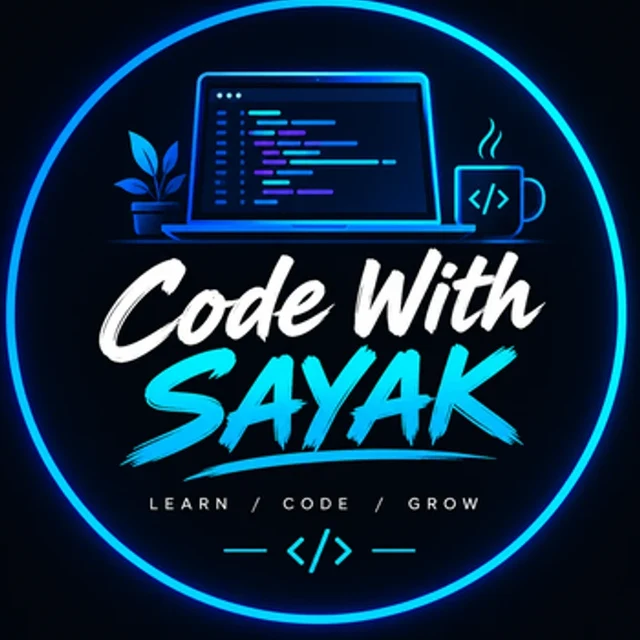
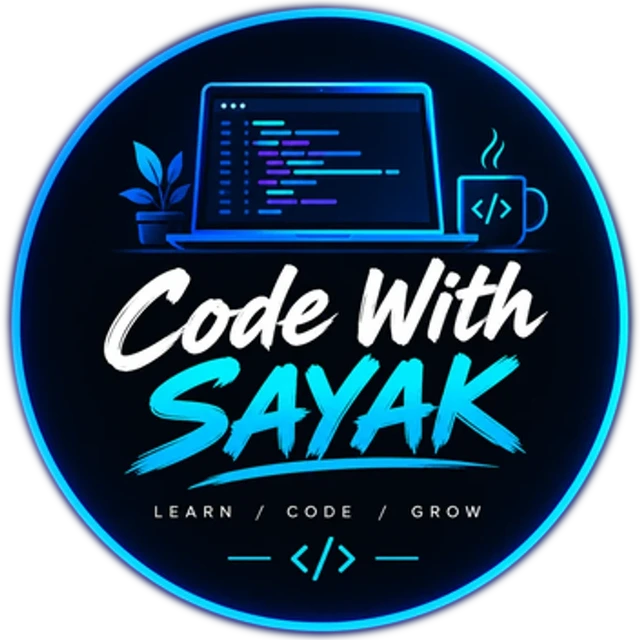
Fix hero orb and about card image sizing, centering, and alpha masking

diff --git a/src/styles/sections.css b/src/styles/sections.css
@@ -165,8 +165,8 @@
 }
 .hero__role .rotator {
   position: relative;
-  display: inline-block;
-  min-width: 17ch;
+  display: inline-grid;
+  align-items: center;
   color: var(--text);
   /* The box must be at least one full line box tall, otherwise uppercase mono
      text gets shaved top and bottom and the neighbouring item bleeds in. */
@@ -175,11 +175,7 @@
   overflow: hidden;
 }
 .hero__role .rotator > span {
-  position: absolute;
-  top: 0;
-  left: 0;
-  width: 100%;
-  height: 100%;
+  grid-area: 1 / 1;
   display: flex;
   align-items: center;
   color: var(--accent);
@@ -297,10 +293,11 @@
 .orb {
   position: relative;
   width: 58%;
-  aspect-ratio: 1;
+  aspect-ratio: 1 / 1;
   border-radius: 50%;
-  display: grid;
-  place-items: center;
+  display: flex;
+  align-items: center;
+  justify-content: center;
   background: radial-gradient(circle at 35% 28%, #1c2b3a, #0a0e15 62%);
   box-shadow: inset 0 0 60px rgba(52, 216, 238, 0.16), 0 40px 90px -30px rgba(52, 216, 238, 0.35),
     0 0 0 1px rgba(255, 255, 255, 0.09);
@@ -324,10 +321,14 @@
 .orb img {
   position: relative;
   z-index: 1;
-  width: 88%;
+  width: 90%;
+  height: auto;
+  max-height: 90%;
   aspect-ratio: 1 / 1;
   object-fit: contain;
+  object-position: center;
   border-radius: 50%;
+  flex-shrink: 0;
   opacity: 1;
   filter: drop-shadow(0 8px 30px rgba(52, 216, 238, 0.35));
 }
@@ -695,11 +696,15 @@
   aspect-ratio: 16 / 9;
   background: radial-gradient(120% 90% at 50% 0%, #121a24 0%, #0a0d13 58%, #070a0f 100%);
   display: grid;
+  grid-template-columns: minmax(0, 1fr);
+  grid-template-rows: minmax(0, 1fr);
   place-items: stretch;
 }
 .pcard__media img {
   width: 100%;
   height: 100%;
+  min-width: 0;
+  min-height: 0;
   object-fit: contain;
   object-position: center;
   transition: transform 0.9s var(--ease), filter 0.6s;
@@ -803,9 +808,10 @@
   background: radial-gradient(120% 100% at 50% 0%, rgba(52, 216, 238, 0.13), rgba(9, 11, 16, 0.6) 55%);
   overflow: hidden;
   aspect-ratio: 4 / 4.4;
-  display: grid;
-  place-items: center;
-  padding-bottom: 34px;
+  display: flex;
+  align-items: center;
+  justify-content: center;
+  padding: 9% 8% 13%;
 }
 .brand-card::after {
   content: '';
@@ -821,17 +827,18 @@
 .brand-card__media {
   position: relative;
   z-index: 1;
-  width: 80%;
-  max-height: calc(100% - 76px);
-  display: grid;
-  place-items: center;
+  width: min(86%, 360px);
+  aspect-ratio: 1 / 1;
+  display: flex;
+  align-items: center;
+  justify-content: center;
 }
 .brand-card__media img {
   width: 100%;
-  height: auto;
-  max-height: 100%;
+  height: 100%;
   object-fit: contain;
-  border-radius: 6px;
+  object-position: center;
+  border-radius: 50%;
   filter: drop-shadow(0 22px 60px rgba(52, 216, 238, 0.28));
 }
 .brand-card__frame {

diff --git a/src/sections/About.jsx b/src/sections/About.jsx
@@ -86,7 +86,7 @@ export default function About() {
                   src={profile.portrait}
                   alt="Code with Sayak — Learn, Code, Grow"
                   width="800"
-                  height="1000"
+                  height="800"
                   loading="lazy"
                   decoding="async"
                 />

diff --git a/src/index.css b/src/index.css
@@ -89,6 +89,10 @@ canvas {
   display: block;
   max-width: 100%;
 }
+img,
+video {
+  height: auto;
+}
 button,
 input,
 textarea,
